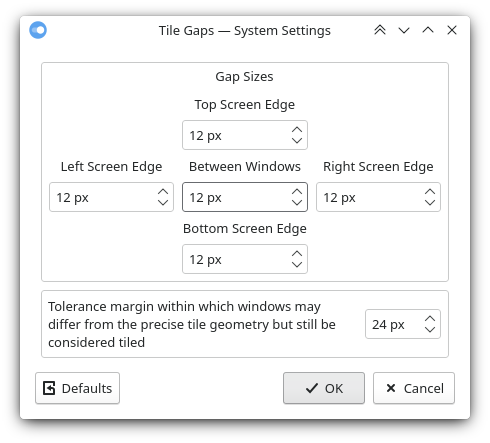
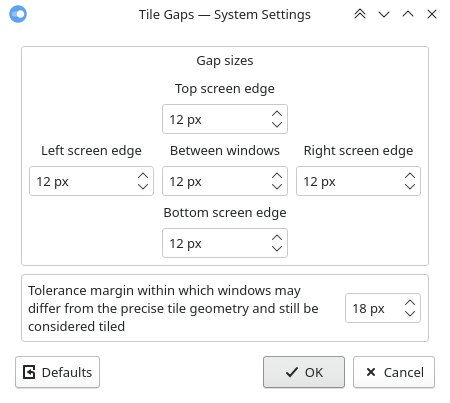
update screenshot

Changed region(s): [[0.0, 0.0, 0.9956, 0.9826], [0.3422, 0.1191, 0.6533, 0.3871]]

diff --git a/contents/code/main.js b/contents/code/main.js
@@ -15,7 +15,7 @@ const config = {
     gapMid:    readConfig("gapMid",    12),
     gapRight:  readConfig("gapRight",  12),
     gapBottom: readConfig("gapBottom", 12),
-    tolerance: readConfig("tolerance", 24)
+    tolerance: readConfig("tolerance", 18)
 };
 
 
@@ -55,29 +55,59 @@ function onAdded(client) {
 // get area geometry
 ///////////////////////
 
-// client area
+// available screen area
 function getArea(client) {
     return workspace.clientArea(client, client.screen, client.desktop);
 }
 
-// anchor coordinates with gaps
+// anchor coordinates with and without gaps
 function getGrid(client) {
     var area = getArea(client);
     return {
         // x
-        left: area.x + config.gapLeft,
-        midH: area.x + area.width/4 + config.gapLeft/4 + config.gapRight/4 + config.gapMid/4,
-        right: area.x + area.width/2 + config.gapMid/2,
+        left: {
+            closed: area.x,
+            gapped: area.x + config.gapLeft
+        },
+        midH: {
+            closed: area.x + area.width/4,
+            gapped: area.x + area.width/4 + config.gapLeft/4 + config.gapRight/4 + config.gapMid/4
+        },
+        right: {
+            closed: area.x + area.width/2,
+            gapped: area.x + area.width/2 + config.gapMid/2
+        },
         // y
-        top: area.y + config.gapTop,
-        midV: area.y + area.height/4 + config.gapTop/4 + config.gapBottom/4 + config.gapMid/4,
-        bottom: area.y + area.height/2 + config.gapMid/2,
+        top: {
+            closed: area.y,
+            gapped: area.y + config.gapTop
+        },
+        midV: {
+            closed: area.y + area.height/4,
+            gapped: area.y + area.height/4 + config.gapTop/4 + config.gapBottom/4 + config.gapMid/4
+        },
+        bottom: {
+            closed: area.y + area.height/2,
+            gapped: area.y + area.height/2 + config.gapMid/2
+        },
         // width
-        fullWidth: area.width - config.gapLeft - config.gapRight,
-        halfWidth: (area.width - config.gapLeft - config.gapRight - config.gapMid)/2,
+        fullWidth: {
+            closed: area.width,
+            gapped: area.width - config.gapLeft - config.gapRight
+        },
+        halfWidth: {
+            closed: area.width/2,
+            gapped: (area.width - config.gapLeft - config.gapRight - config.gapMid)/2
+        },
         // height
-        fullHeight: area.height - config.gapTop - config.gapBottom,
-        halfHeight: (area.height - config.gapTop - config.gapBottom - config.gapMid)/2
+        fullHeight: {
+            closed: area.height,
+            gapped: area.height - config.gapTop - config.gapBottom
+        },
+        halfHeight: {
+            closed: area.height/2,
+            gapped: (area.height - config.gapTop - config.gapBottom - config.gapMid)/2
+        }
     };
 }
 
@@ -178,11 +208,10 @@ function getTiles(client) {
     };
 }
 
-// window is considered tiled iff the difference on all coordinates between actual and expected geometry is within the tolerated divergence margin
+// window is considered tiled iff the difference on all coordinates between the actual geometry and the expected is within the tolerated divergence margin
 function near(actual, expected) {
     return Object.keys(expected).every(coord =>
-        actual[coord] - expected[coord] >= -config.tolerance
-     && actual[coord] - expected[coord] <=  config.tolerance);
+        Math.abs(actual[coord] - expected[coord]) <= config.tolerance);
 }
 
 
@@ -207,14 +236,27 @@ function tileGaps(win) {
     // iterate possible tile positions
     var tiles = getTiles(win);
     for (var i = 0; i < Object.keys(tiles).length; i++) {
-        var tile = {label: Object.keys(tiles)[i]}; // position label
-        tile.geometry = tiles[tile.label]; // geometry (with gaps)
+        // position label
+        var tile = {label: Object.keys(tiles)[i]};
+        coords = tiles[tile.label];
+        // tile coordinates for closed layout
+        tile.closed = {geometry:
+            Object.keys(coords).reduce(function(obj, coord) {
+            obj[coord] = coords[coord].closed;
+            return obj;
+            }, {})};
+        // tile coordinates for gapped layout
+        tile.gapped = {geometry:
+            Object.keys(coords).reduce(function(obj, coord) {
+            obj[coord] = coords[coord].gapped;
+            return obj;
+            }, {})};
 
         // check if the window is approximately tiled there
-        if (near(win.geometry, tile.geometry)) {
+        if (near(win.geometry, tile.closed.geometry)) {
             // window is tiled: apply gapped geometry
-            debug("gapping", tile.label, ...Object.values(tile.geometry), "\n");
-            win.geometry = tile.geometry;
+            debug("gapping", tile.label, ...Object.values(tile.gapped.geometry), "\n");
+            win.geometry = tile.gapped.geometry;
             return;
         }
     }

diff --git a/README.md b/README.md
@@ -6,7 +6,7 @@ The size of the gap is configurable.
 
 ![screenshot](screenshot.png)
 
-![config](config.png)
+![config](config_.png)
 
 [view in KDE Store](https://www.pling.com/p/1619642/)
 
